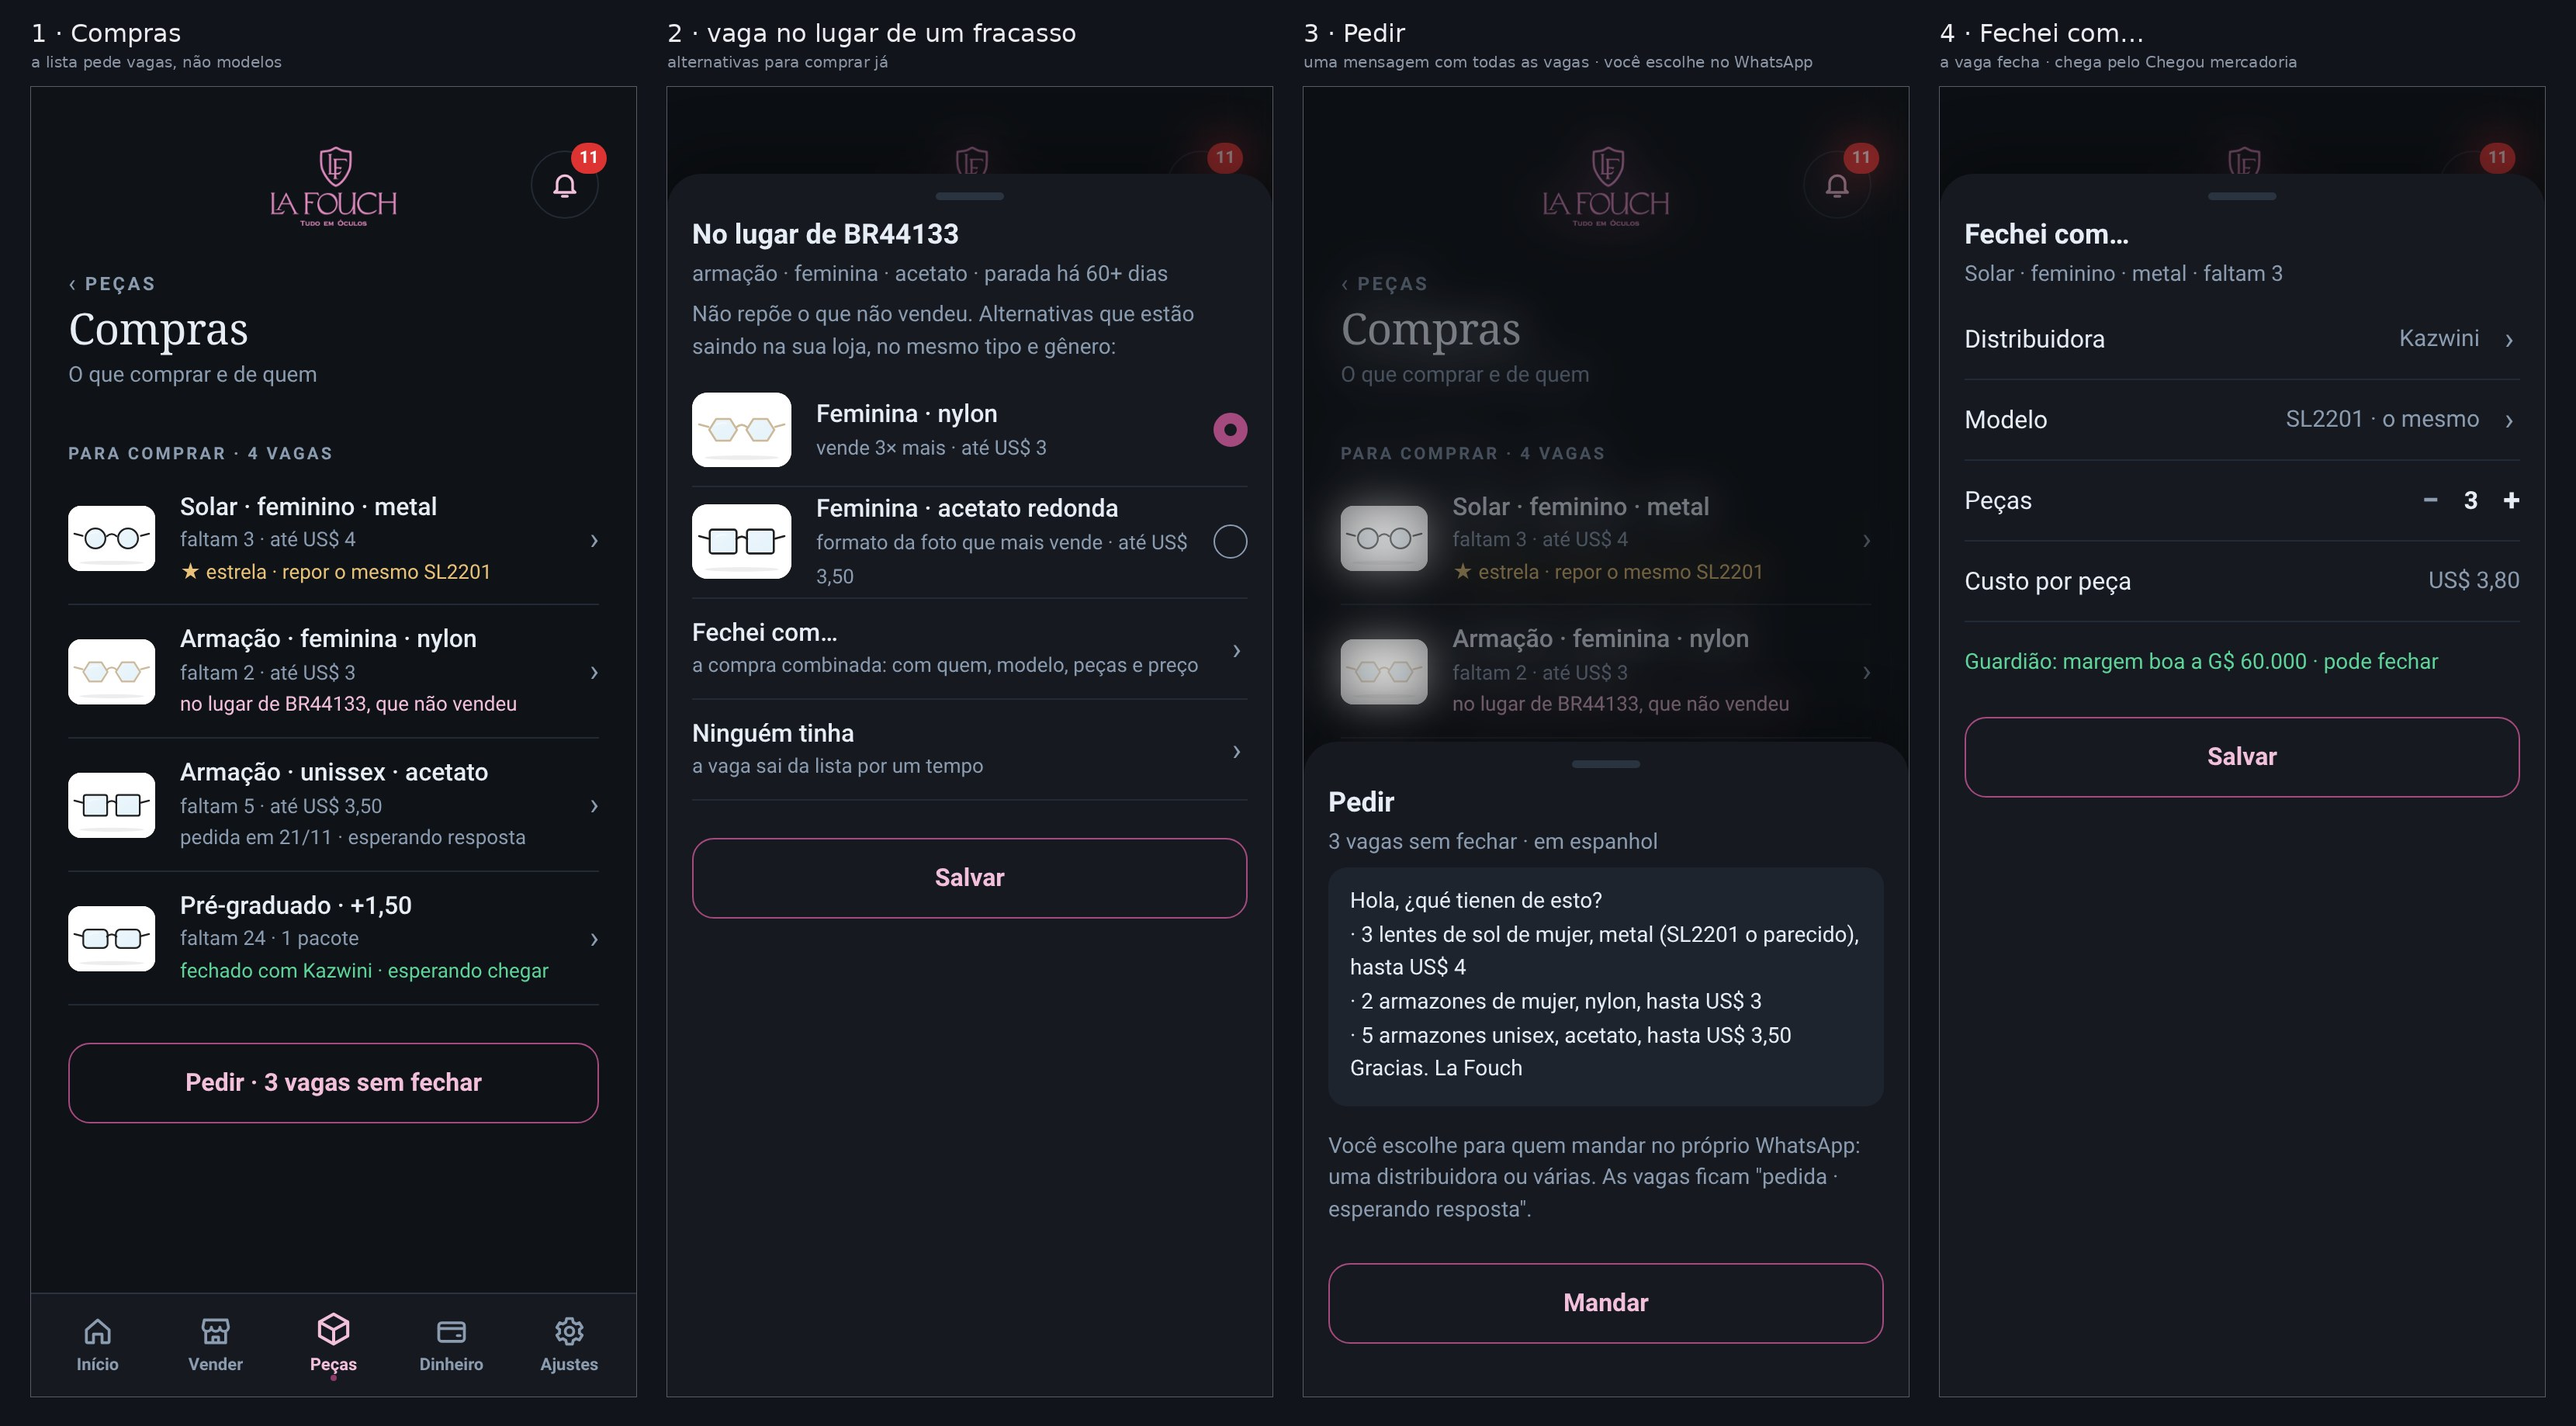
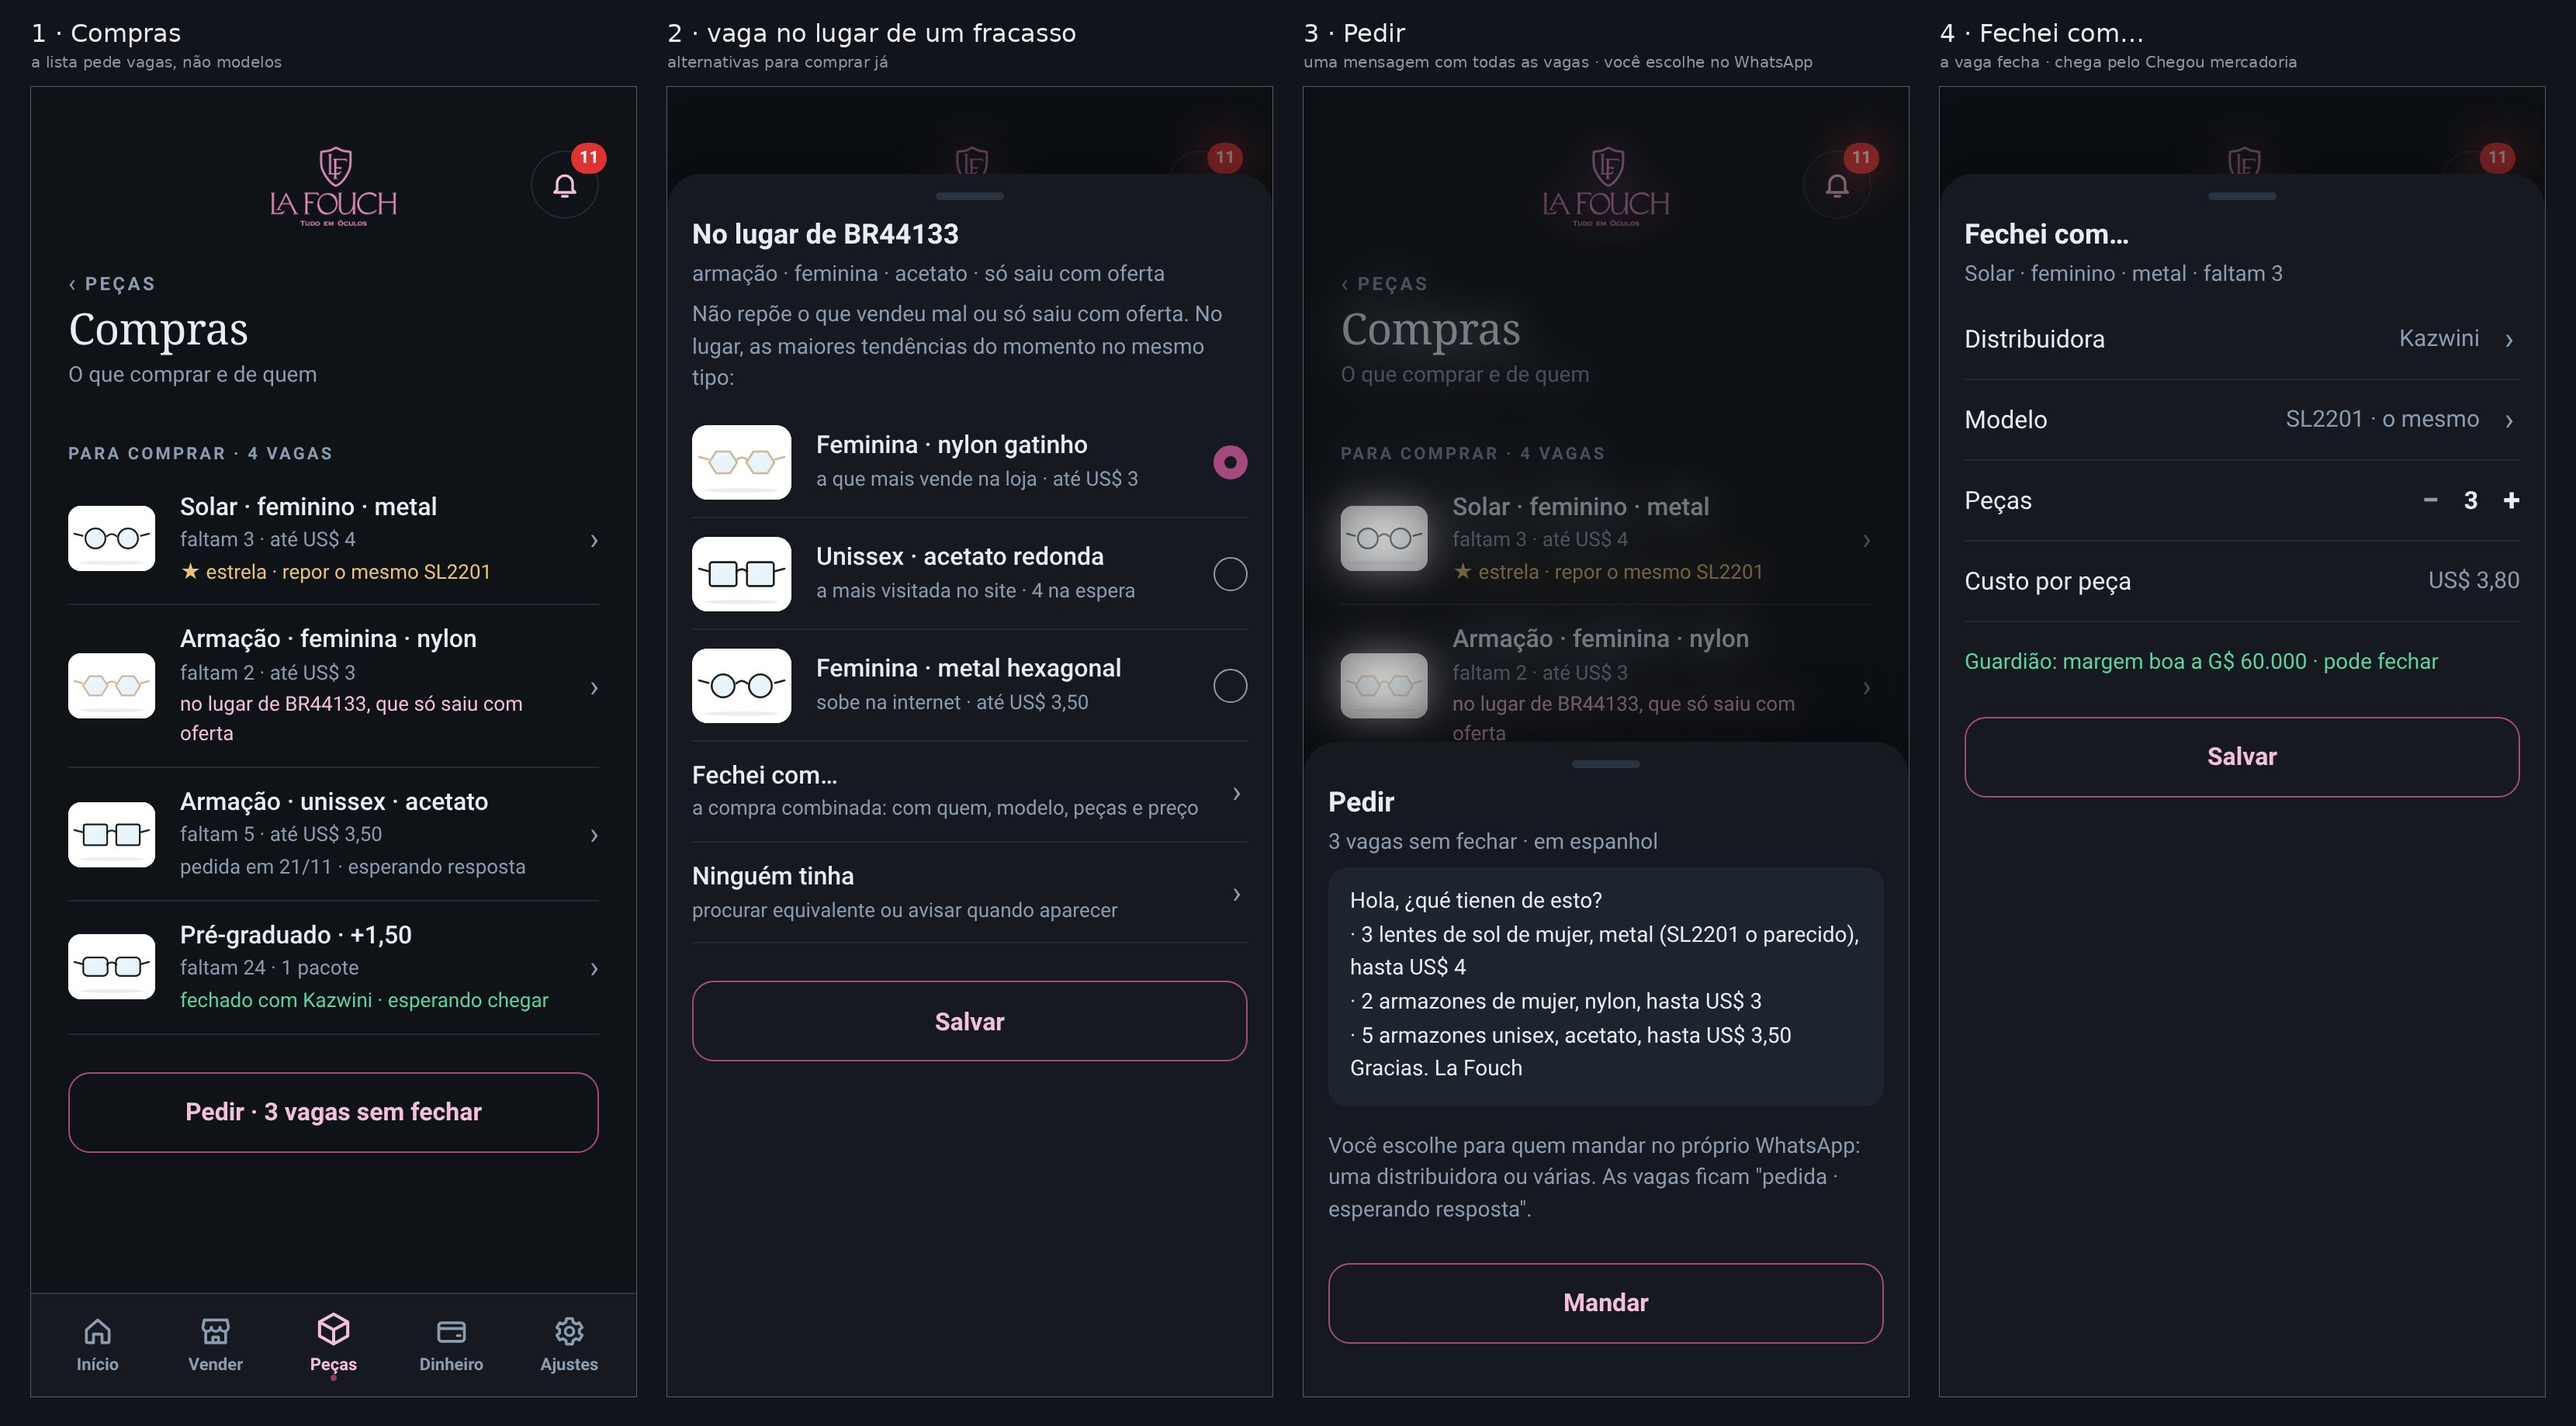
Compras parte A §7: fracasso (só saiu com oferta) trocado pelas tendências
Claude-Session: https://claude.ai/code/session_01Vj5GPRt4UBskC3w8v52h7G

diff --git a/work/s435/compras/esboco_51.py b/work/s435/compras/esboco_51.py
@@ -14,16 +14,16 @@ def frame(pw,qual):
   b,pg,w=nova(pw);I=imgs(pg);pg.evaluate("()=>{__LF.S.nvP=['grp:g:pecas'];__LF.S.nvG='g:pecas';__LF.setView('grp')}");w(900)
   html=pg.evaluate("(I)=>{"+H+J+r"""return TOP('Peças','Compras','O que comprar e de quem',0)+LBL('Para comprar · 4 vagas')+
     VAGA(I[3]||I[0],'Solar · feminino · metal','faltam 3 · até US$ 4','<small style="font-size:13px;color:'+AV+'">★ estrela · repor o mesmo SL2201</small>')+
-    VAGA(I[2]||I[0],'Armação · feminina · nylon','faltam 2 · até US$ 3','<small style="font-size:13px;color:'+AC+'">no lugar de BR44133, que não vendeu</small>')+
+    VAGA(I[2]||I[0],'Armação · feminina · nylon','faltam 2 · até US$ 3','<small style="font-size:13px;color:'+AC+'">no lugar de BR44133, que só saiu com oferta</small>')+
     VAGA(I[1]||I[0],'Armação · unissex · acetato','faltam 5 · até US$ 3,50','<small style="font-size:13px;color:var(--mute)">pedida em 21/11 · esperando resposta</small>')+
     VAGA(I[0],'Pré-graduado · +1,50','faltam 24 · 1 pacote','<small style="font-size:13px;color:'+OK+'">fechado com Kazwini · esperando chegar</small>')+
     '<button type="button" style="display:block;width:100%;min-height:52px;margin:24px 0 8px;border-radius:14px;border:1.5px solid var(--accent);background:none;color:var(--accent-fg);font:inherit;font-size:16px;font-weight:700">Pedir · 3 vagas sem fechar</button>'}""",I)
   pagina(pg,'<div class="e49">'+html+'</div>');w(500)
   if qual=='vaga': pg.evaluate("(I)=>{"+H+J+r"""const ALT=(img,t,s,on)=>'<div style="display:flex;align-items:center;gap:16px;min-height:72px;border-bottom:1px solid var(--line2)"><span style="flex:0 0 64px;height:48px;border-radius:10px;overflow:hidden;background:#fff"><img src="'+img+'" style="width:100%;height:100%;object-fit:contain"></span><span style="flex:1;min-width:0"><b style="display:block;font-size:16px;font-weight:500">'+t+'</b><small style="font-size:13px;color:var(--mute)">'+s+'</small></span><span style="width:22px;height:22px;border-radius:50%;flex:none;'+(on?'border:7px solid var(--accent)':'border:1.5px solid var(--mute)')+'"></span></div>';
-     JAN('No lugar de BR44133','armação · feminina · acetato · parada há 60+ dias',
-     '<div style="color:var(--mute);font-size:14px;line-height:1.45;margin:0 0 8px">Não repõe o que não vendeu. Alternativas que estão saindo na sua loja, no mesmo tipo e gênero:</div>'+
-     ALT(I[2]||I[0],'Feminina · nylon','vende 3× mais · até US$ 3',1)+ALT(I[1]||I[0],'Feminina · acetato redonda','formato da foto que mais vende · até US$ 3,50',0)+
-     ROW('','Fechei com…','a compra combinada: com quem, modelo, peças e preço')+ROW('','Ninguém tinha','a vaga sai da lista por um tempo'),'Salvar')}""",I);w(500)
+     JAN('No lugar de BR44133','armação · feminina · acetato · só saiu com oferta',
+     '<div style="color:var(--mute);font-size:14px;line-height:1.45;margin:0 0 8px">Não repõe o que vendeu mal ou só saiu com oferta. No lugar, as maiores tendências do momento no mesmo tipo:</div>'+
+     ALT(I[2]||I[0],'Feminina · nylon gatinho','a que mais vende na loja · até US$ 3',1)+ALT(I[1]||I[0],'Unissex · acetato redonda','a mais visitada no site · 4 na espera',0)+ALT(I[3]||I[0],'Feminina · metal hexagonal','sobe na internet · até US$ 3,50',0)+
+     ROW('','Fechei com…','a compra combinada: com quem, modelo, peças e preço')+ROW('','Ninguém tinha','procurar equivalente ou avisar quando aparecer'),'Salvar')}""",I);w(500)
   if qual=='pedir': pg.evaluate("(I)=>{"+H+J+r"""JAN('Pedir','3 vagas sem fechar · em espanhol',
      '<div style="background:var(--panel2);border-radius:12px;padding:12px 14px;font-size:14px;line-height:1.55;color:var(--fg)">Hola, ¿qué tienen de esto?<br>· 3 lentes de sol de mujer, metal (SL2201 o parecido), hasta US$ 4<br>· 2 armazones de mujer, nylon, hasta US$ 3<br>· 5 armazones unisex, acetato, hasta US$ 3,50<br>Gracias. La Fouch</div>'+
      '<div style="color:var(--mute);font-size:14px;line-height:1.45;margin:16px 0 0">Você escolhe para quem mandar no próprio WhatsApp: uma distribuidora ou várias. As vagas ficam "pedida · esperando resposta".</div>','Mandar')}""",I);w(500)

diff --git a/docs/MEMORIA-PROJETO.md b/docs/MEMORIA-PROJETO.md
@@ -3458,3 +3458,4 @@ Testar TUDO, com muita calma, antes de dizer que está pronto ou de publicar: ca
 - 21/11 13:22 · DONO: 51 'muito bom', falta melhorar o 'Ninguém tinha'. 51b enviado: janela com 3 saídas (Procurar parecido = abre a vaga para outro material/formato que vende ou custo um pouco maior · Avisar quando aparecer = o Semp confere as distribuidoras e avisa no sino · Deixar sem = fecha até as vendas pedirem de novo) + Salvar. Esperando o dono.
 - 21/11/2026 — ✅ PUBLICADO app v600 (5.50.25) · 134 (2b): 'Vender no Catálogo ›' e 'Fotografar no Estúdio ›' nascem no fim da ficha do Inventário (fichaLinks), centralizados, nas 4 abas. 353/353 no simulador; nada em aparelho real. Falta do 134: linhas .pl.pick, ficha sem o cartão grande e sem caixas, 134b Fornecedores, 134d Editar na janela de baixo.
 - 21/11 13:25 · DONO: dados da compra = vendas do PRÓPRIO APP (o que funciona agora, peso maior) + Analisador do site (modelos visitados/saindo) + lista de espera ('me avise quando chegar', poderosa para achar equivalente quando a peça não volta) + tendências da internet só como complemento. Estrela que vende muito bem NÃO é trocada, a menos que acabe e não dê mais para repor. 51b refeito: 'Ninguém tinha' mostra 'N clientes esperam esta peça'; Procurar equivalente (pela foto da original; quando chegar, avisa os clientes) · Avisar quando aparecer; 'Deixar sem' só sem ninguém esperando. Parte A atualizada (seções 5 e 6).
+- 21/11 13:32 · DONO: fracasso = vendeu mal OU só saiu com oferta; é substituído pelas MAIORES TENDÊNCIAS do momento. Proposta (parte A §7): venda com oferta NÃO conta como procura (falha de hoje: a lista conta toda venda igual e pediria repor o que zerou na liquidação); a troca mantém o TIPO e o equilíbrio de material; a vaga mostra 'No lugar de X, que só saiu com oferta · tendências agora' com 2–3 opções e o motivo (mais vende na loja · mais visitada no site/espera · sobe na internet). Esboço 51 quadro 2 refeito. Esperando o dono.

diff --git a/docs/FALTA-APROVAR-15-11.md b/docs/FALTA-APROVAR-15-11.md
@@ -949,3 +949,4 @@ Não são esquecimento (estavam na lista, parados de propósito ou por ordem do 
 - 21/11 13:22 · DONO: 51 'muito bom', falta melhorar o 'Ninguém tinha'. 51b enviado: janela com 3 saídas (Procurar parecido = abre a vaga para outro material/formato que vende ou custo um pouco maior · Avisar quando aparecer = o Semp confere as distribuidoras e avisa no sino · Deixar sem = fecha até as vendas pedirem de novo) + Salvar. Esperando o dono.
 - 21/11/2026 — ✅ PUBLICADO app v600 (5.50.25) · 134 (2b): 'Vender no Catálogo ›' e 'Fotografar no Estúdio ›' nascem no fim da ficha do Inventário (fichaLinks), centralizados, nas 4 abas. 353/353 no simulador; nada em aparelho real. Falta do 134: linhas .pl.pick, ficha sem o cartão grande e sem caixas, 134b Fornecedores, 134d Editar na janela de baixo.
 - 21/11 13:25 · DONO: dados da compra = vendas do PRÓPRIO APP (o que funciona agora, peso maior) + Analisador do site (modelos visitados/saindo) + lista de espera ('me avise quando chegar', poderosa para achar equivalente quando a peça não volta) + tendências da internet só como complemento. Estrela que vende muito bem NÃO é trocada, a menos que acabe e não dê mais para repor. 51b refeito: 'Ninguém tinha' mostra 'N clientes esperam esta peça'; Procurar equivalente (pela foto da original; quando chegar, avisa os clientes) · Avisar quando aparecer; 'Deixar sem' só sem ninguém esperando. Parte A atualizada (seções 5 e 6).
+- 21/11 13:32 · DONO: fracasso = vendeu mal OU só saiu com oferta; é substituído pelas MAIORES TENDÊNCIAS do momento. Proposta (parte A §7): venda com oferta NÃO conta como procura (falha de hoje: a lista conta toda venda igual e pediria repor o que zerou na liquidação); a troca mantém o TIPO e o equilíbrio de material; a vaga mostra 'No lugar de X, que só saiu com oferta · tendências agora' com 2–3 opções e o motivo (mais vende na loja · mais visitada no site/espera · sobe na internet). Esboço 51 quadro 2 refeito. Esperando o dono.

diff --git a/work/s435/compras/PARTE-A-LOGICA-DA-COMPRA.md b/work/s435/compras/PARTE-A-LOGICA-DA-COMPRA.md
@@ -57,3 +57,17 @@ Por ordem de peso:
 - Se a peça não volta mais, a vaga passa para **"procurar equivalente"**. O Semp compara com a foto da original e usa as vendas e o Analisador. O Guardião confere o preço.
 - Quando o equivalente chega, o "Chegou mercadoria" mostra **"5 clientes esperavam algo assim"** e traz a mensagem pronta no WhatsApp: "Chegou um parecido com o que você queria", com a foto.
 - **"Deixar sem"** só aparece quando ninguém está esperando. A vaga reabre no primeiro "me avise".
+
+## 7. O fracasso: o que vendeu mal ou só saiu com oferta (dono 21/11 13:29)
+
+**O que conta como fracasso:**
+- vendeu mal: parado há 60 dias ou mais, ou "sobrando";
+- ou **só saiu com oferta**: a maior parte das vendas foi com desconto do preço automático ou com "Oferta ›".
+
+**A venda com oferta não conta como procura.** Uma peça que acabou numa liquidação não "vendeu bem": a lista não pode pedir para repor só porque ela zerou. Hoje a lista de compras conta toda venda igual. É uma falha que precisa ser corrigida junto.
+
+**O que entra no lugar:** as **maiores tendências do momento**, que o Semp põe em ordem com os pesos da seção 5 (vendas do app, Analisador, lista de espera e, por último, a internet).
+- Mantém o **tipo**, para não desequilibrar a vitrine: um solar fracassado dá lugar a um solar em tendência.
+- Respeita o **equilíbrio de material**, para a loja não ficar toda de metal, nylon ou acetato.
+
+Na tela, a vaga aparece assim: "No lugar de BR44133, que só saiu com oferta · tendências agora:", seguido das 2 ou 3 melhores, com o motivo de cada uma.
